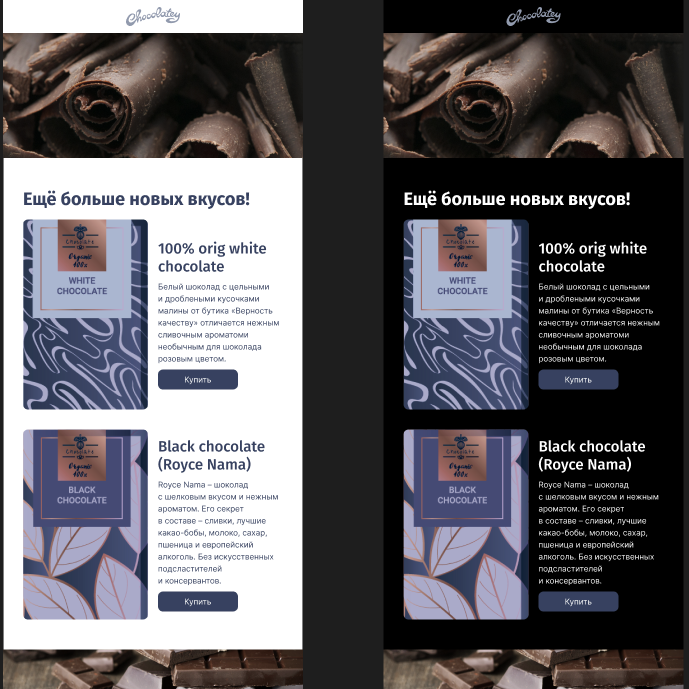
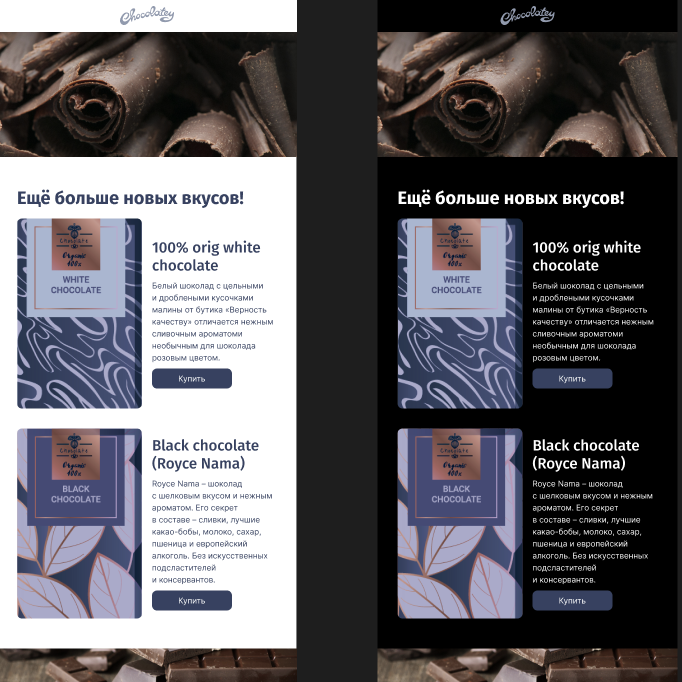
Portfolio section

diff --git a/css/style.min.css b/css/style.min.css
@@ -1,1 +1,1 @@
-@font-face{font-family:"Ubuntu";src:url("../fonts/Ubuntu-Medium.woff2") format("woff2"),url("../fonts/Ubuntu-Medium.woff") format("woff");font-weight:500;font-style:normal;font-display:swap}@font-face{font-family:"Ubuntu";src:url("../fonts/Ubuntu-Bold.woff2") format("woff2"),url("../fonts/Ubuntu-Bold.woff") format("woff");font-weight:bold;font-style:normal;font-display:swap}@font-face{font-family:"Ubuntu";src:url("../fonts/Ubuntu-Light.woff2") format("woff2"),url("../fonts/Ubuntu-Light.woff") format("woff");font-weight:300;font-style:normal;font-display:swap}@font-face{font-family:"Ubuntu";src:url("../fonts/Ubuntu-Regular.woff2") format("woff2"),url("../fonts/Ubuntu-Regular.woff") format("woff");font-weight:normal;font-style:normal;font-display:swap}html{-webkit-box-sizing:border-box;box-sizing:border-box}*,*::before,*::after{-webkit-box-sizing:inherit;box-sizing:inherit}a{color:inherit;text-decoration:none}img{width:100%}body{font-family:"Ubuntu",Arial,sans-serif;font-style:normal;font-weight:300;height:100%;background-color:#000}h1{font-size:2.8em;line-height:1;margin-bottom:8vh;text-transform:uppercase;color:#fff;text-align:left}h2{font-size:1.8em;font-weight:300;color:#fff}h2:not(:last-child){margin-bottom:3vh}.wrapper{position:relative;height:100%;background-color:rgba(255,255,255,.1);border:2px solid rgba(255,255,255,.2);border-radius:30px;-webkit-backdrop-filter:blur(20px);backdrop-filter:blur(20px);-webkit-transform:scale(0);transform:scale(0);-webkit-animation:zoom-in 1s ease forwards;animation:zoom-in 1s ease forwards;padding:6% 3vw}@-webkit-keyframes zoom-in{100%{-webkit-transform:scale(1);transform:scale(1)}}@keyframes zoom-in{100%{-webkit-transform:scale(1);transform:scale(1)}}.top-wrapper{background:url("../images/bckg.jpg") no-repeat center/cover;padding:40px 5% 60px 5%}.animated{-webkit-transform:translateY(30px);transform:translateY(30px);opacity:0;-webkit-animation:slide-in 1s ease forwards;animation:slide-in 1s ease forwards;-webkit-animation-delay:1s;animation-delay:1s}@-webkit-keyframes slide-in{100%{-webkit-transform:translateY(0);transform:translateY(0);opacity:1}}@keyframes slide-in{100%{-webkit-transform:translateY(0);transform:translateY(0);opacity:1}}.navbar-brand{font-size:24px;font-weight:600}.nav-link{font-size:20px;margin-right:2vw;color:#fff;border-bottom:2px solid rgba(0,0,0,0)}.nav-link.active{border-bottom:2px solid #fff}.nav-link:hover{border-bottom:2px solid #fff}.home-detail{display:-webkit-box;display:-ms-flexbox;display:flex;-webkit-box-orient:vertical;-webkit-box-direction:normal;-ms-flex-direction:column;flex-direction:column;-webkit-box-align:start;-ms-flex-align:start;align-items:start;height:100%;gap:30px;padding:50px 5% 0 10px;color:#fff;-webkit-animation-delay:1.2s;animation-delay:1.2s}.home-img{display:-webkit-box;display:-ms-flexbox;display:flex;-webkit-box-orient:vertical;-webkit-box-direction:normal;-ms-flex-direction:column;flex-direction:column;-webkit-box-pack:center;-ms-flex-pack:center;justify-content:center;-webkit-box-align:center;-ms-flex-align:center;align-items:center;margin-top:40px}.home-img-item{border:2px solid #fff;border-radius:20px;-webkit-box-shadow:0 0 20px #fff;box-shadow:0 0 20px #fff;padding:20px;-webkit-transition:all .5s;transition:all .5s}.home-img-item:hover{-webkit-transform:scale(1.2);transform:scale(1.2)}.social{display:-webkit-box;display:-ms-flexbox;display:flex;-webkit-box-orient:vertical;-webkit-box-direction:normal;-ms-flex-direction:column;flex-direction:column;-webkit-box-align:center;-ms-flex-align:center;align-items:center}.social-btn{display:inline-block;background-color:#e00404;border:2px solid #fff;color:#fff;font-weight:500;-webkit-transition:all .5s;transition:all .5s;padding:10px 30px;border-radius:40px;-webkit-box-shadow:0 0 10px #fff;box-shadow:0 0 10px #fff}.social-btn:hover{background:rgba(0,0,0,0);-webkit-box-shadow:none;box-shadow:none;color:#fff;border-color:#e00404}.social-icons{padding:20px 0}.social-icons a{display:-webkit-inline-box;display:-ms-inline-flexbox;display:inline-flex;padding:8px;font-size:36px;color:#fff;text-decoration:none;margin:0 8px;-webkit-transition:all .5s;transition:all .5s}.social-icons a:hover{color:#e00404}.footer-nav{color:#fff;font-size:12px;padding-top:60px}.footer-item{display:-webkit-box;display:-ms-flexbox;display:flex;-webkit-box-pack:center;-ms-flex-pack:center;justify-content:center;-webkit-box-align:center;-ms-flex-align:center;align-items:center}.footer-item:nth-child(2){font-size:18px}.footer-item:nth-child(2) p{display:-webkit-inline-box;display:-ms-inline-flexbox;display:inline-flex;-webkit-box-pack:center;-ms-flex-pack:center;justify-content:center;-webkit-box-align:center;-ms-flex-align:center;align-items:center}.footer-item:nth-child(2) i{font-size:32px;color:#06e6f6;margin-left:7px}.portfolio{padding:6% 3vw}.portfolio .btn-primary{display:inline-block;background-color:#e00404;border:2px solid #fff;color:#fff;font-weight:500;-webkit-transition:all .5s;transition:all .5s;width:30%;padding-top:0;padding-bottom:0}.portfolio .btn-primary:hover{background:rgba(0,0,0,0);-webkit-box-shadow:none;box-shadow:none;color:#fff;border-color:#e00404}.portfolio .card{border:2px solid #fff;border-radius:20px;-webkit-box-shadow:0 0 20px #fff;box-shadow:0 0 20px #fff;padding:20px;-webkit-transition:all .5s;transition:all .5s;-webkit-box-shadow:0 0 12px #fff;box-shadow:0 0 12px #fff}.portfolio .card:hover{-webkit-transform:scale(1.2);transform:scale(1.2)}@media only screen and (max-width: 991px){h2{font-size:1.4em}.nav-link{font-size:18px}}@media only screen and (max-width: 767px){h1{font-size:2.2em}.home-img-item{margin-bottom:40px;width:60%}}@media only screen and (max-width: 575px){.footer-item:nth-child(2){-webkit-box-ordinal-group:4;-ms-flex-order:3;order:3;-ms-flex-item-align:center;align-self:center;margin-top:5vh}}
+@font-face{font-family:"Ubuntu";src:url("../fonts/Ubuntu-Medium.woff2") format("woff2"),url("../fonts/Ubuntu-Medium.woff") format("woff");font-weight:500;font-style:normal;font-display:swap}@font-face{font-family:"Ubuntu";src:url("../fonts/Ubuntu-Bold.woff2") format("woff2"),url("../fonts/Ubuntu-Bold.woff") format("woff");font-weight:bold;font-style:normal;font-display:swap}@font-face{font-family:"Ubuntu";src:url("../fonts/Ubuntu-Light.woff2") format("woff2"),url("../fonts/Ubuntu-Light.woff") format("woff");font-weight:300;font-style:normal;font-display:swap}@font-face{font-family:"Ubuntu";src:url("../fonts/Ubuntu-Regular.woff2") format("woff2"),url("../fonts/Ubuntu-Regular.woff") format("woff");font-weight:normal;font-style:normal;font-display:swap}html{-webkit-box-sizing:border-box;box-sizing:border-box}*,*::before,*::after{-webkit-box-sizing:inherit;box-sizing:inherit}a{color:inherit;text-decoration:none;cursor:pointer}img{width:100%}body{font-family:"Ubuntu",Arial,sans-serif;font-style:normal;font-weight:300;height:100%;background-color:#000;color:#fff}h1{font-size:2.8em;line-height:1;margin-bottom:8vh;text-transform:uppercase;text-align:left}h2{font-size:1.8em;font-weight:300}h2:not(:last-child){margin-bottom:3vh}h3{font-size:2.2em;text-transform:uppercase;text-align:center;margin:8vh 0}.wrapper{position:relative;height:100%;background-color:rgba(255,255,255,.1);border:2px solid rgba(255,255,255,.2);border-radius:30px;-webkit-backdrop-filter:blur(20px);backdrop-filter:blur(20px);-webkit-transform:scale(0);transform:scale(0);-webkit-animation:zoom-in 1s ease forwards;animation:zoom-in 1s ease forwards;padding:0 3vw 5% 3vw;padding-top:6%}@-webkit-keyframes zoom-in{100%{-webkit-transform:scale(1);transform:scale(1)}}@keyframes zoom-in{100%{-webkit-transform:scale(1);transform:scale(1)}}.top-wrapper{background:url("../images/bckg.jpg") no-repeat center/cover;padding:40px 5% 60px 5%}.animated{-webkit-transform:translateY(30px);transform:translateY(30px);opacity:0;-webkit-animation:slide-in 1s ease forwards;animation:slide-in 1s ease forwards;-webkit-animation-delay:1s;animation-delay:1s}@-webkit-keyframes slide-in{100%{-webkit-transform:translateY(0);transform:translateY(0);opacity:1}}@keyframes slide-in{100%{-webkit-transform:translateY(0);transform:translateY(0);opacity:1}}.navbar-brand{font-size:24px;font-weight:600}.nav-link{font-size:20px;margin-right:2vw;color:#fff;border-bottom:2px solid rgba(0,0,0,0)}.nav-link.active{border-bottom:2px solid #fff}.nav-link:hover{border-bottom:2px solid #fff}.home-detail{display:-webkit-box;display:-ms-flexbox;display:flex;-webkit-box-orient:vertical;-webkit-box-direction:normal;-ms-flex-direction:column;flex-direction:column;-webkit-box-align:start;-ms-flex-align:start;align-items:start;height:100%;gap:30px;padding:50px 5% 0 10px;-webkit-animation-delay:1.2s;animation-delay:1.2s}.home-img{display:-webkit-box;display:-ms-flexbox;display:flex;-webkit-box-orient:vertical;-webkit-box-direction:normal;-ms-flex-direction:column;flex-direction:column;-webkit-box-pack:center;-ms-flex-pack:center;justify-content:center;-webkit-box-align:center;-ms-flex-align:center;align-items:center;margin-top:40px}.home-img-item{border:2px solid #fff;border-radius:20px;-webkit-box-shadow:0 0 20px #fff;box-shadow:0 0 20px #fff;padding:20px;-webkit-transition:all .5s;transition:all .5s}.home-img-item:hover{-webkit-transform:scale(1.2);transform:scale(1.2)}.social{display:-webkit-box;display:-ms-flexbox;display:flex;-webkit-box-orient:vertical;-webkit-box-direction:normal;-ms-flex-direction:column;flex-direction:column;-webkit-box-align:center;-ms-flex-align:center;align-items:center}.social-btn{display:inline-block;background-color:#e00404;border:2px solid #fff;color:#fff;font-weight:500;-webkit-transition:all .5s;transition:all .5s;padding:10px 30px;border-radius:40px;-webkit-box-shadow:0 0 10px #fff;box-shadow:0 0 10px #fff}.social-btn:hover{background:rgba(0,0,0,0);-webkit-box-shadow:none;box-shadow:none;color:#fff;border-color:#e00404}.social-icons{padding:20px 0}.social-icons a{display:-webkit-inline-box;display:-ms-inline-flexbox;display:inline-flex;padding:8px;font-size:36px;color:#fff;text-decoration:none;margin:0 8px;-webkit-transition:all .5s;transition:all .5s}.social-icons a:hover{color:#e00404}.footer-nav{font-size:12px;padding-top:60px}.footer-item{display:-webkit-box;display:-ms-flexbox;display:flex;-webkit-box-pack:center;-ms-flex-pack:center;justify-content:center;-webkit-box-align:center;-ms-flex-align:center;align-items:center}.footer-item:nth-child(2){font-size:18px}.footer-item:nth-child(2) p{display:-webkit-inline-box;display:-ms-inline-flexbox;display:inline-flex;-webkit-box-pack:center;-ms-flex-pack:center;justify-content:center;-webkit-box-align:center;-ms-flex-align:center;align-items:center}.footer-item:nth-child(2) i{font-size:32px;color:#06e6f6;margin-left:7px}.portfolio{padding:0 3vw 5% 3vw}.portfolio .btn-primary{display:inline-block;background-color:#e00404;border:2px solid #fff;color:#fff;font-weight:500;-webkit-transition:all .5s;transition:all .5s;width:30%;padding-top:0;padding-bottom:0}.portfolio .btn-primary:hover{background:rgba(0,0,0,0);-webkit-box-shadow:none;box-shadow:none;color:#fff;border-color:#e00404}.portfolio .card{border:2px solid #fff;border-radius:20px;-webkit-box-shadow:0 0 20px #fff;box-shadow:0 0 20px #fff;padding:20px;-webkit-transition:all .5s;transition:all .5s;-webkit-box-shadow:0 0 12px #fff;box-shadow:0 0 12px #fff;padding:0}.portfolio .card:hover{-webkit-transform:scale(1.05);transform:scale(1.05)}.portfolio .card-img-top{border-radius:16px 16px 0 0}.portfolio .card-footer{padding-top:3vh;padding-bottom:4vh}@media only screen and (max-width: 991px){h2{font-size:1.4em}.nav-link{font-size:18px}}@media only screen and (max-width: 767px){h1{font-size:2.2em}.home-img-item{margin-bottom:40px;width:60%}}@media only screen and (max-width: 575px){.footer-item:nth-child(2){-webkit-box-ordinal-group:4;-ms-flex-order:3;order:3;-ms-flex-item-align:center;align-self:center;margin-top:5vh}}

diff --git a/style.scss b/style.scss
@@ -1,7 +1,7 @@
 /* SCSS Variables */
 $base-light: #fff;
 $accent: rgb(224, 4, 4);
-$section-padding: 6% 3vw;
+$section-padding: 0 3vw 5% 3vw;
 
 /*Mixins*/
 @mixin btn-accent {
@@ -25,9 +25,6 @@ $section-padding: 6% 3vw;
     box-shadow: 0 0 20px $base-light;
     padding: 20px;
     transition: all .5s;
-    &:hover {
-        transform: scale(1.2);
-    }
 }
 
 
@@ -79,6 +76,7 @@ html {
 a {
 	color: inherit;
 	text-decoration: none;
+    cursor: pointer;
 }
 
 img {
@@ -91,6 +89,7 @@ body {
 	font-weight: 300;
 	height: 100%;
     background-color: black;
+    color: $base-light;
 }
 
 h1 {
@@ -98,17 +97,23 @@ h1 {
 	line-height: 1;
 	margin-bottom: 8vh;
 	text-transform: uppercase;
-    color: $base-light;
     text-align: left;
 }
 h2 {
 	font-size: 1.8em;
 	font-weight: 300;
-    color: $base-light;
+
 }
 
 h2:not(:last-child) {
     margin-bottom: 3vh;
+}
+
+h3 {
+    font-size: 2.2em;
+    text-transform: uppercase;
+    text-align: center;
+    margin: 8vh 0;
 }
 
 .wrapper {
@@ -121,6 +126,7 @@ h2:not(:last-child) {
 	transform: scale(0);
     animation: zoom-in 1s ease forwards;
     padding: $section-padding;
+    padding-top: 6%;
  }
 
 @keyframes zoom-in {
@@ -174,10 +180,8 @@ h2:not(:last-child) {
         height: 100%;
         gap: 30px;
         padding: 50px 5% 0 10px;
-        color: $base-light;
         animation-delay: 1.2s;
     }
-
     &-img {
         display: flex;
         flex-direction: column;
@@ -186,6 +190,9 @@ h2:not(:last-child) {
         margin-top: 40px;
         &-item {
             @include img-glow;
+            &:hover {
+                transform: scale(1.2);
+            }
         }
     }
 }
@@ -219,7 +226,6 @@ h2:not(:last-child) {
 }
 
 .footer-nav {
-	color: $base-light;
 	font-size: 12px;
 	padding-top: 60px;
 }
@@ -254,6 +260,17 @@ h2:not(:last-child) {
     .card {
         @include img-glow;
         box-shadow: 0 0 12px $base-light;
+        padding: 0;
+        &:hover {
+            transform: scale(1.05);
+        }
+        &-img-top {
+            border-radius: 16px 16px 0 0 ;
+        }
+        &-footer {
+            padding-top: 3vh;
+            padding-bottom: 4vh;
+        }
     }
 }
 

diff --git a/css/style.css b/css/style.css
@@ -41,6 +41,7 @@ html {
 a {
   color: inherit;
   text-decoration: none;
+  cursor: pointer;
 }
 
 img {
@@ -53,6 +54,7 @@ body {
   font-weight: 300;
   height: 100%;
   background-color: black;
+  color: #fff;
 }
 
 h1 {
@@ -60,18 +62,23 @@ h1 {
   line-height: 1;
   margin-bottom: 8vh;
   text-transform: uppercase;
-  color: #fff;
   text-align: left;
 }
 
 h2 {
   font-size: 1.8em;
   font-weight: 300;
-  color: #fff;
 }
 
 h2:not(:last-child) {
   margin-bottom: 3vh;
+}
+
+h3 {
+  font-size: 2.2em;
+  text-transform: uppercase;
+  text-align: center;
+  margin: 8vh 0;
 }
 
 .wrapper {
@@ -86,7 +93,8 @@ h2:not(:last-child) {
           transform: scale(0);
   -webkit-animation: zoom-in 1s ease forwards;
           animation: zoom-in 1s ease forwards;
-  padding: 6% 3vw;
+  padding: 0 3vw 5% 3vw;
+  padding-top: 6%;
 }
 
 @-webkit-keyframes zoom-in {
@@ -164,7 +172,6 @@ h2:not(:last-child) {
   height: 100%;
   gap: 30px;
   padding: 50px 5% 0 10px;
-  color: #fff;
   -webkit-animation-delay: 1.2s;
           animation-delay: 1.2s;
 }
@@ -250,7 +257,6 @@ h2:not(:last-child) {
 }
 
 .footer-nav {
-  color: #fff;
   font-size: 12px;
   padding-top: 60px;
 }
@@ -287,7 +293,7 @@ h2:not(:last-child) {
 }
 
 .portfolio {
-  padding: 6% 3vw;
+  padding: 0 3vw 5% 3vw;
 }
 .portfolio .btn-primary {
   display: inline-block;
@@ -318,10 +324,18 @@ h2:not(:last-child) {
   transition: all 0.5s;
   -webkit-box-shadow: 0 0 12px #fff;
           box-shadow: 0 0 12px #fff;
+  padding: 0;
 }
 .portfolio .card:hover {
-  -webkit-transform: scale(1.2);
-          transform: scale(1.2);
+  -webkit-transform: scale(1.05);
+          transform: scale(1.05);
+}
+.portfolio .card-img-top {
+  border-radius: 16px 16px 0 0;
+}
+.portfolio .card-footer {
+  padding-top: 3vh;
+  padding-bottom: 4vh;
 }
 
 @media only screen and (max-width: 991px) {

diff --git a/index.html b/index.html
@@ -87,6 +87,7 @@
 		<main>
 			<section class="portfolio">
 				<div class="container">
+					<h3>Примеры работ</h3>
 					<div class="row row-cols-1 row-cols-md-2 row-cols-lg-3 row-cols-xxl-4 g-4">
 						<div class="col">
 						  <div class="card h-100 text-bg-dark">
@@ -136,6 +137,18 @@
 							</div>
 						  </div>
 						</div>
+						<div class="col">
+							<div class="card h-100 text-bg-dark">
+							  <img src="images/chocolatey.png" class="card-img-top" alt="...">
+							  <div class="card-body">
+								<h5 class="card-title">Chocolatey</h5>
+								<p class="card-text">Это более длинная карта С вспомогательным текстом ниже в качестве естественного перехода к дополнительному контенту. Этот контент немного длиннее.</p>
+							  </div>
+							  <div class="card-footer text-muted">
+								  <a href="#" class="btn btn-primary"><i class="ri-arrow-down-double-fill"></i></a>
+							  </div>
+							</div>
+						  </div>
 					</div>
 				</div>
 			</section>
